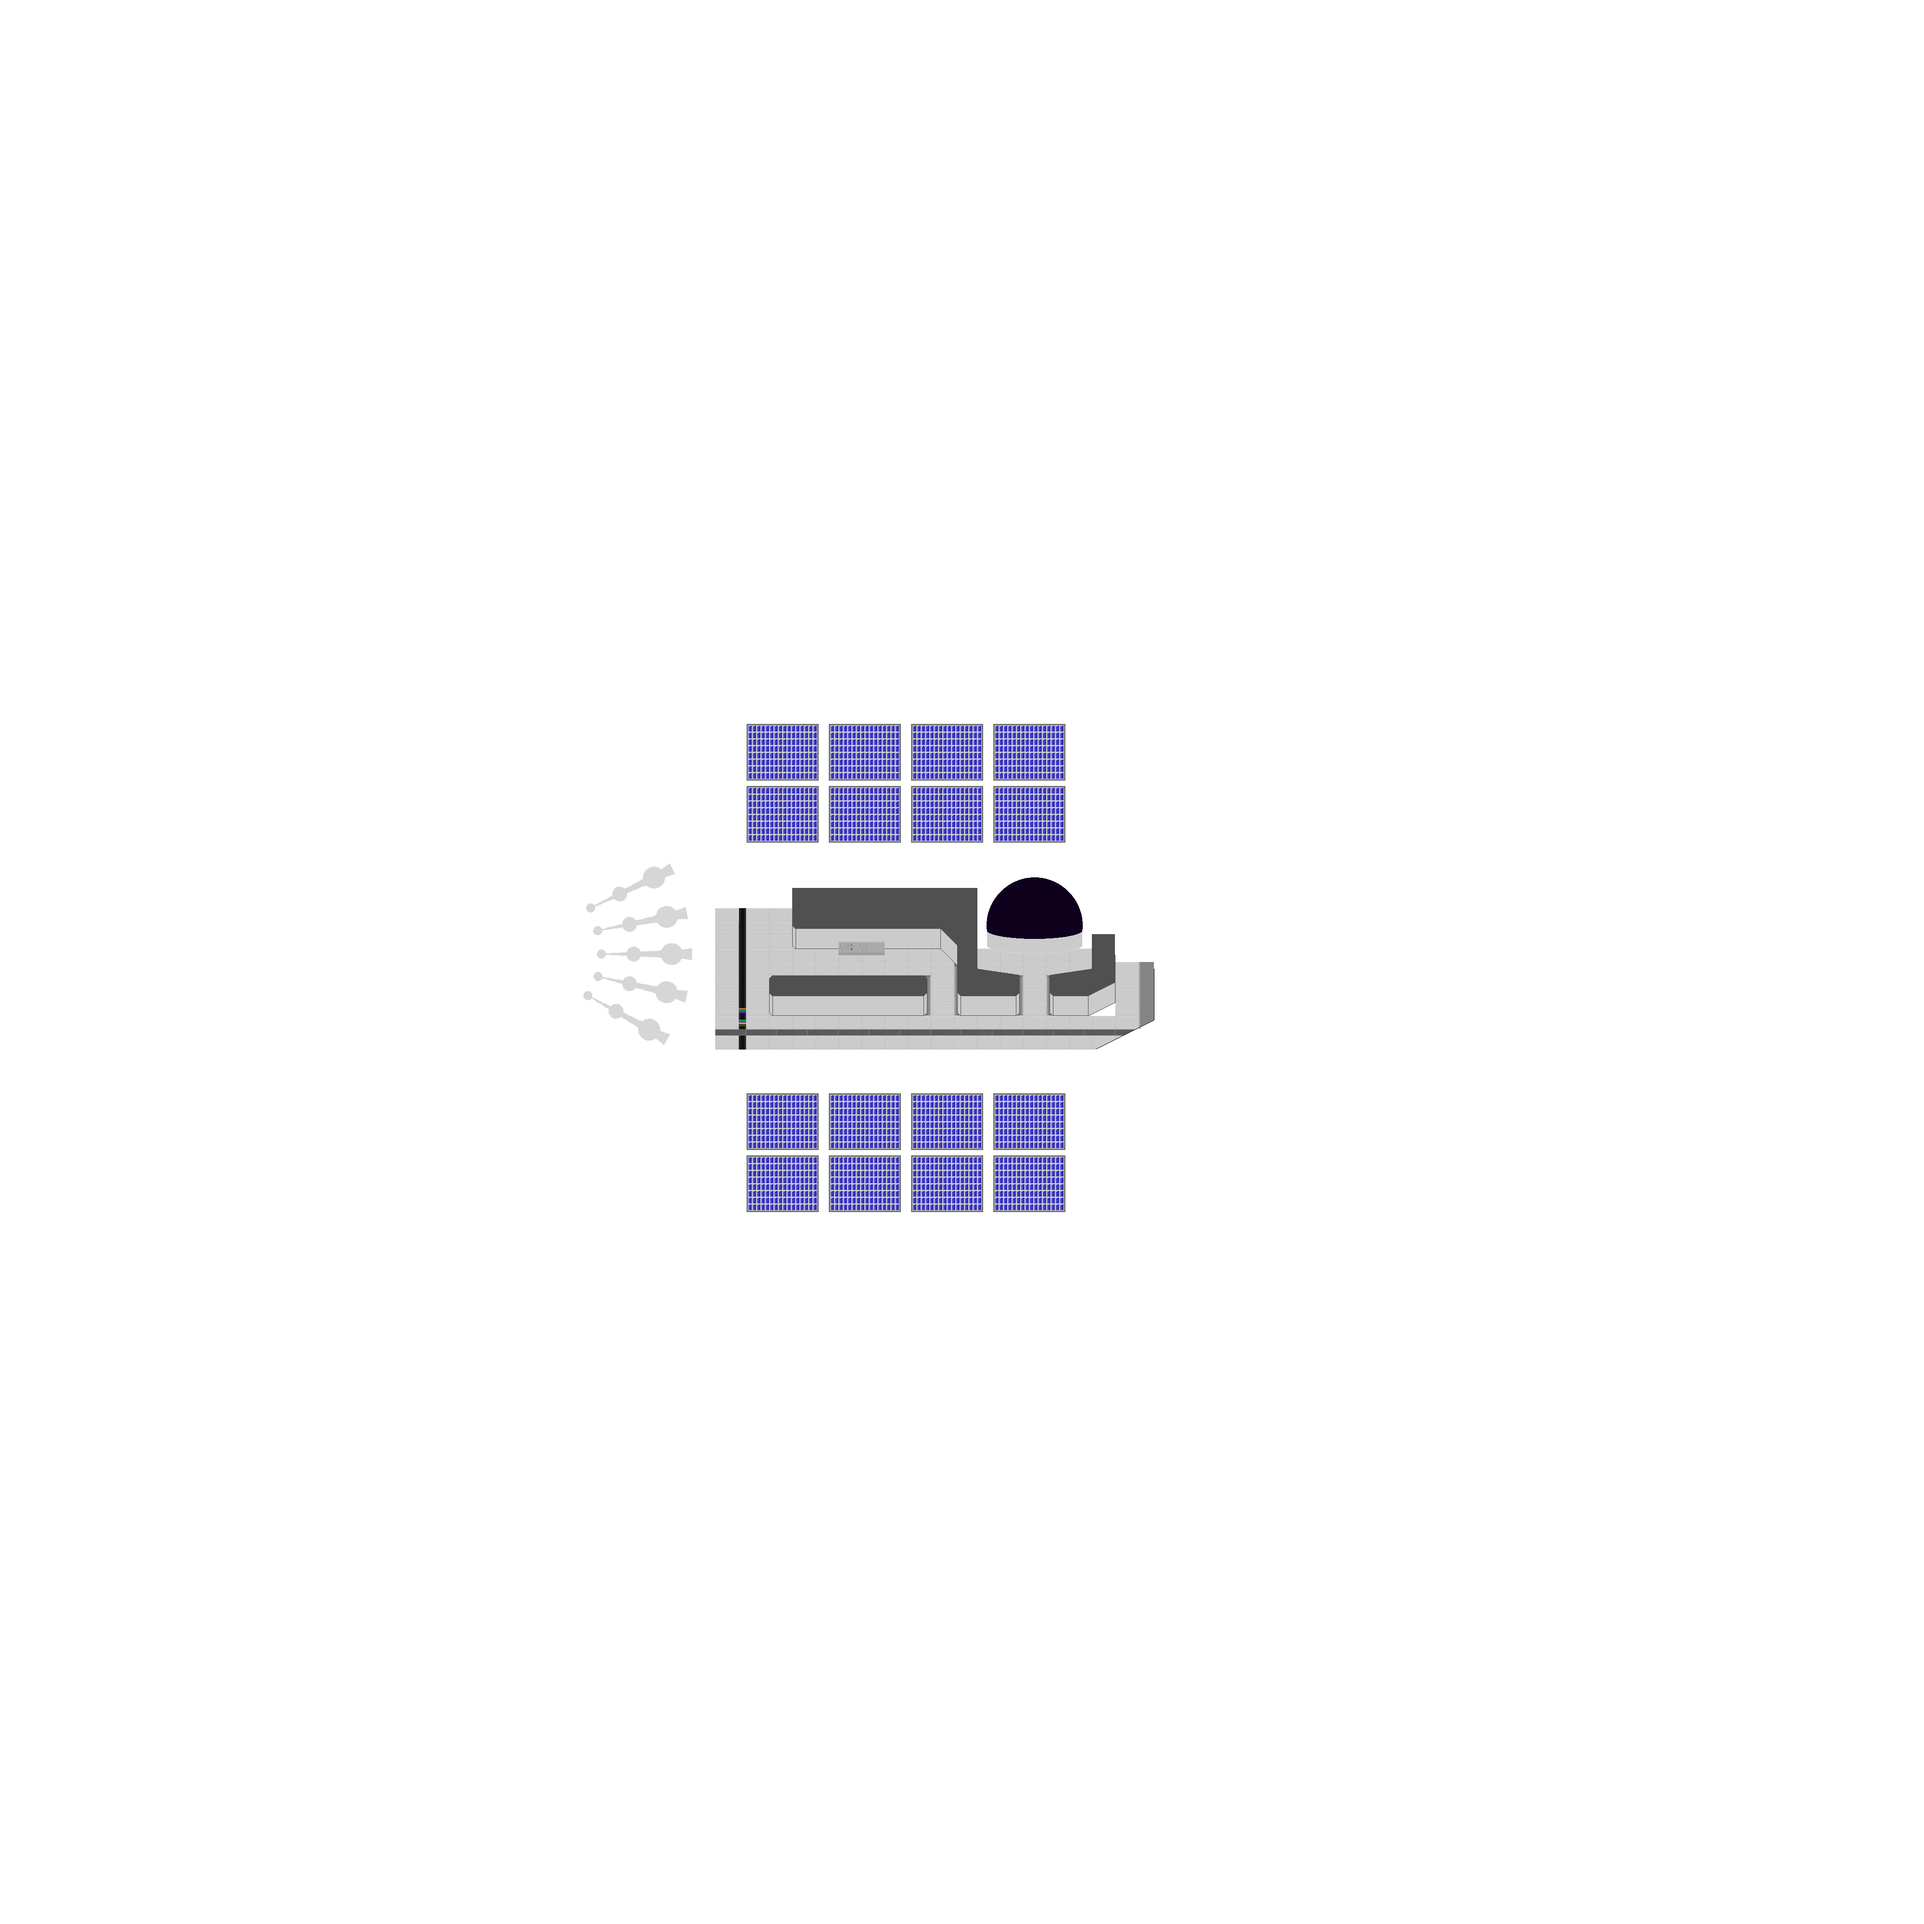
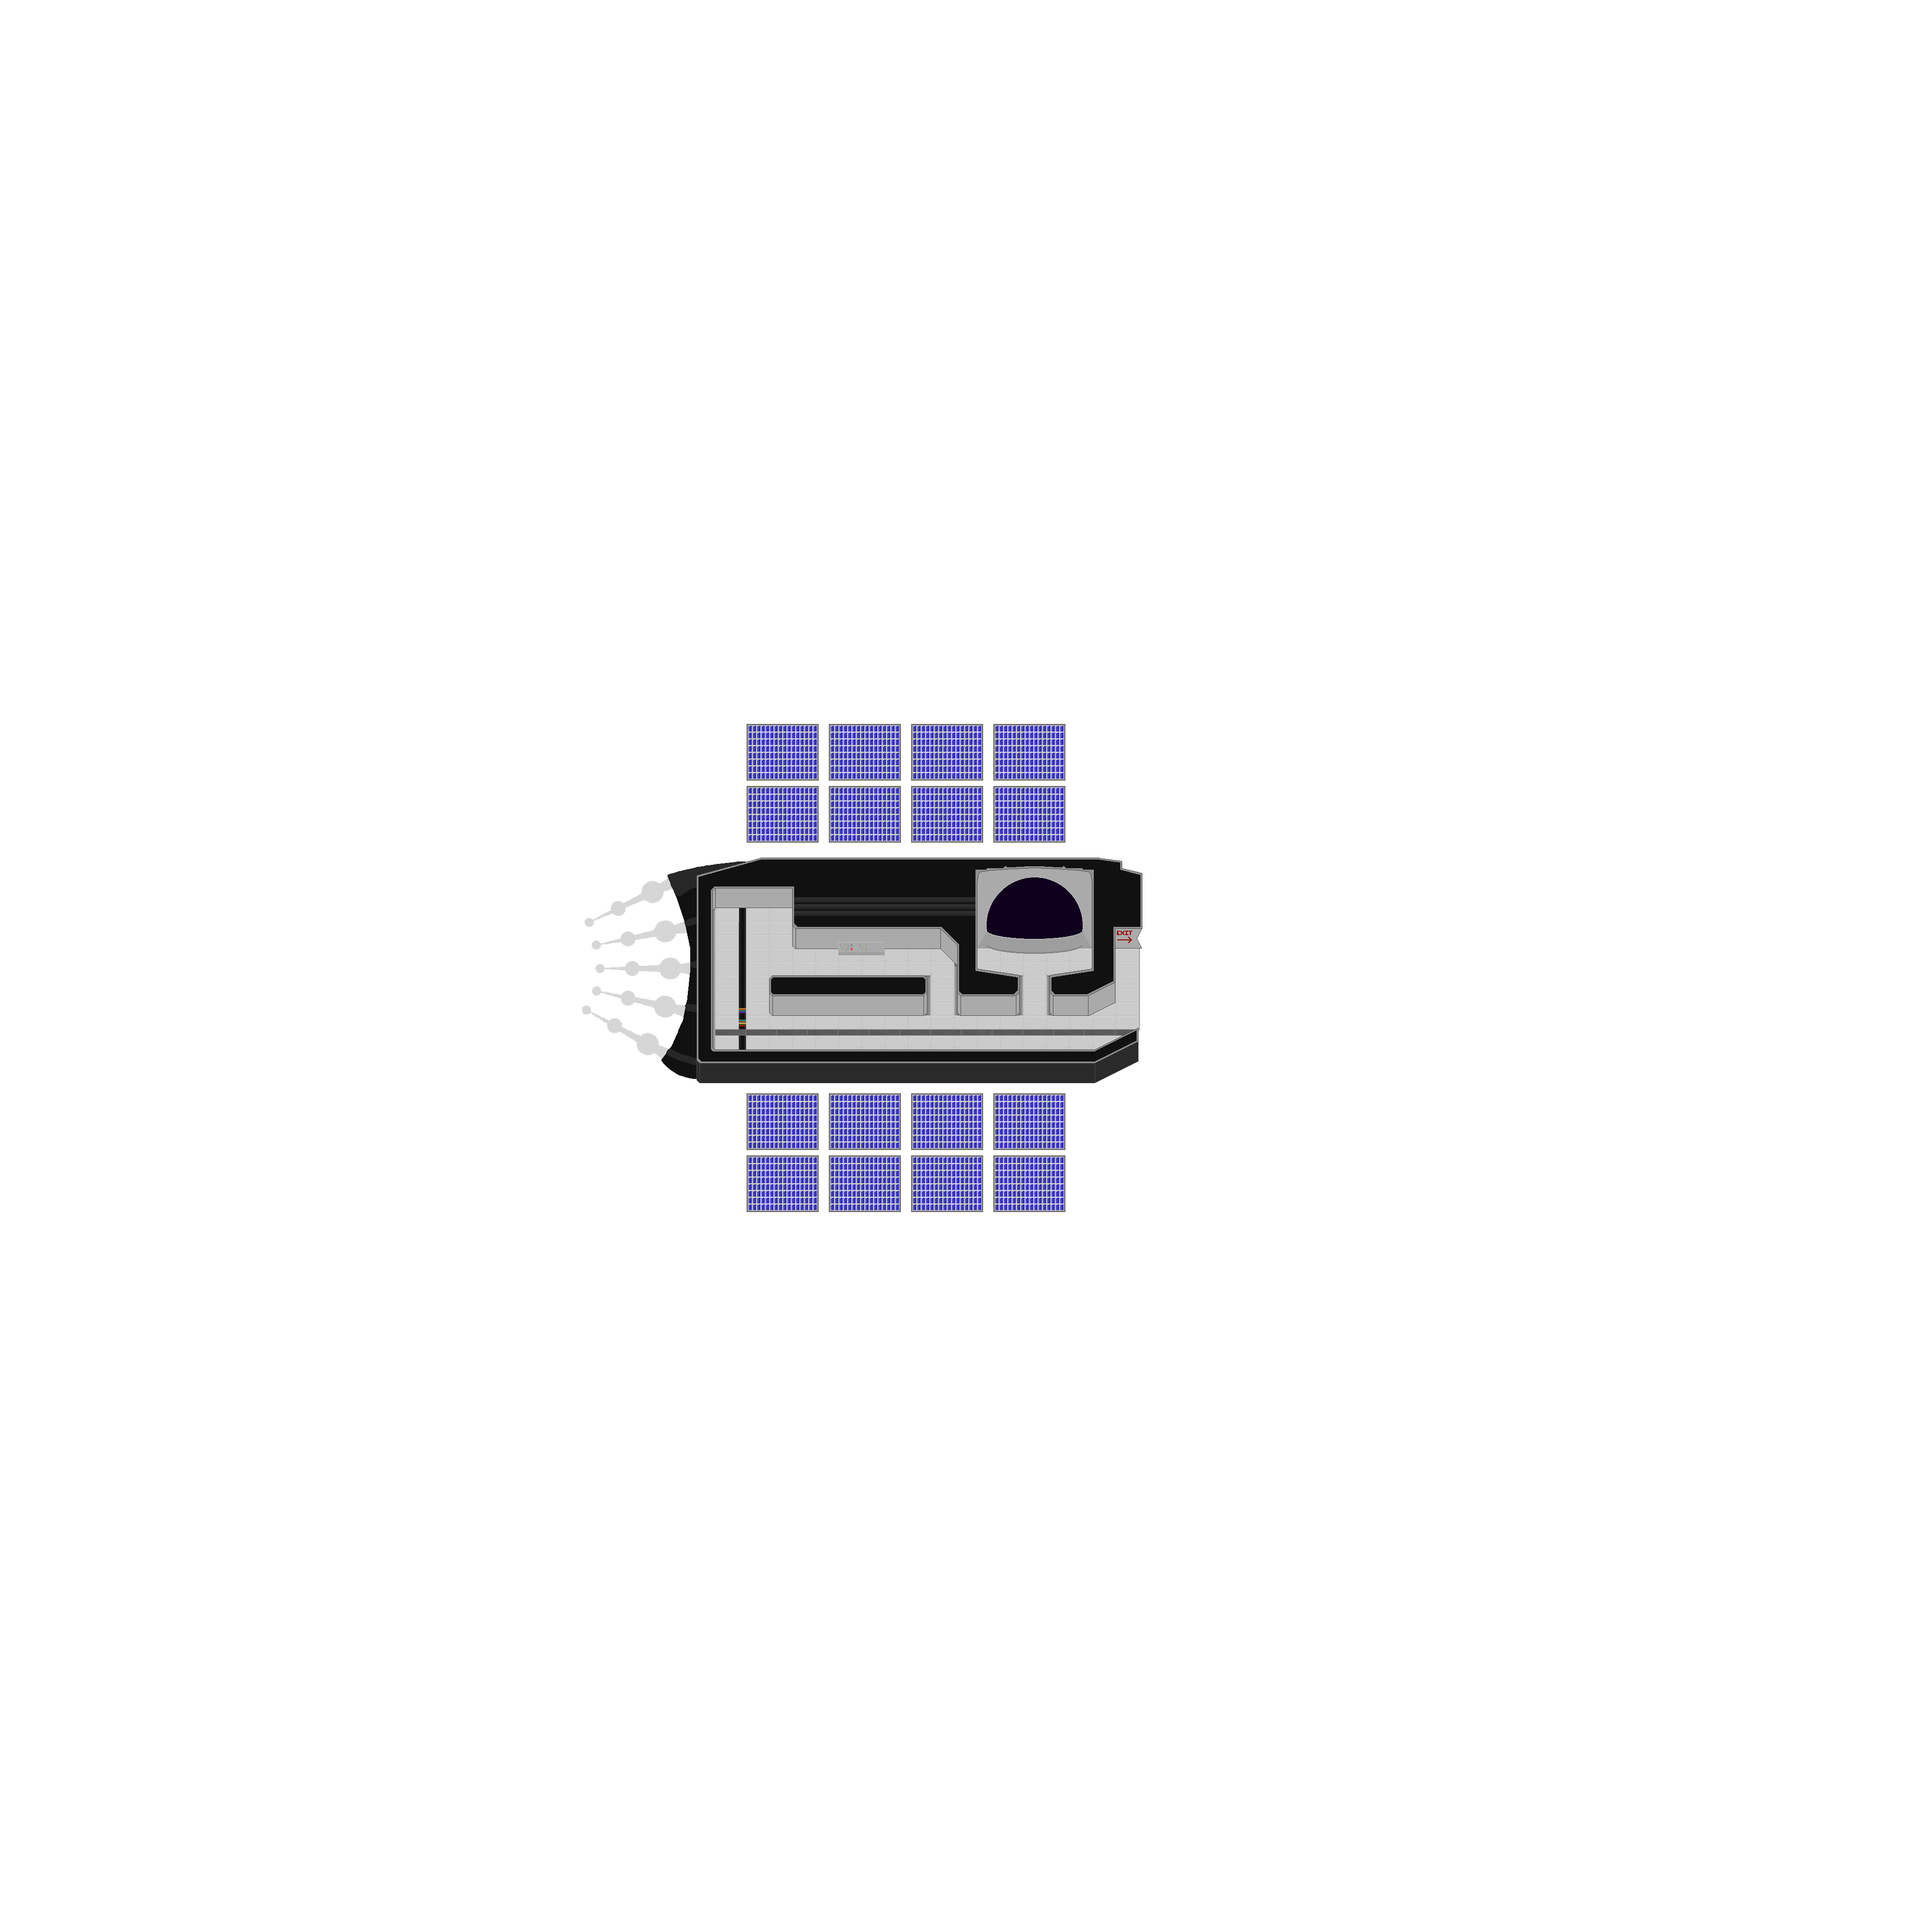
Work on ship, etc

Changed region(s): [[0.3125, 0.4375, 0.625, 0.5625]]

diff --git a/planets/planet.pony.c b/planets/planet.pony.c
@@ -1,5 +1,6 @@
 #include "my.ponygame.h"
 
+#include "../globals.h"
 
 Sprite *new_tile(int i, int j) {
 	AnimHandle* options[] = { &res.planets.tile1_tex.loop, &res.planets.tile2_tex.loop };
@@ -70,5 +71,13 @@ void construct_Planet(Planet *self) {
 
 // void destruct_Planet(Planet *self) { }
 
-// void tick_Planet(Planet *self, PlanetTree *tree) { }
+void tick_Planet(Planet *self, PlanetTree *tree) {
+	tree->ship_prompt->visible = length(get_gpos(player)) < 20;
+	if(tree->ship_prompt->visible) {
+		if(keys.E.just_pressed) {
+			reparent(new(Ship), root);
+			node_destroy(self);
+		}
+	}
+}
 

diff --git a/planets/pod.tex b/planets/pod.tex
@@ -1,0 +1,6 @@
+# This .tex file contains animation data for the associated texture.
+@load planets/pod.tex.png
+@from-aseprite planets/pod.aseprite
+
+@anim loop
+	@frame 100ms 0 0 32 56

diff --git a/fader.tex b/fader.tex
@@ -1,0 +1,6 @@
+# This .tex file contains animation data for the associated texture.
+@load fader.tex.png
+@from-aseprite fader.aseprite
+
+@anim loop
+	@frame 100ms 0 0 16 16

diff --git a/globals.h b/globals.h
@@ -9,6 +9,8 @@
 #define METEOR 4
 #define NEUTRON 5
 
+extern bool on_planet;
+
 extern int res_count(int kind);
 extern void res_add(int kind, int amount);
 

diff --git a/ui/ship_prompt.tex b/ui/ship_prompt.tex
@@ -1,0 +1,4 @@
+# This .tex file contains animation data for the associated texture.
+@load ui/ship_prompt.png
+@anim loop
+	@frame 100ms 0 0 75 20

diff --git a/main.c b/main.c
@@ -3,6 +3,8 @@
 
 #include "render/render_context.h"
 
+bool on_planet;
+
 int engine_level = 1;
 int battery_level = 1;
 int solar_level = 1;
